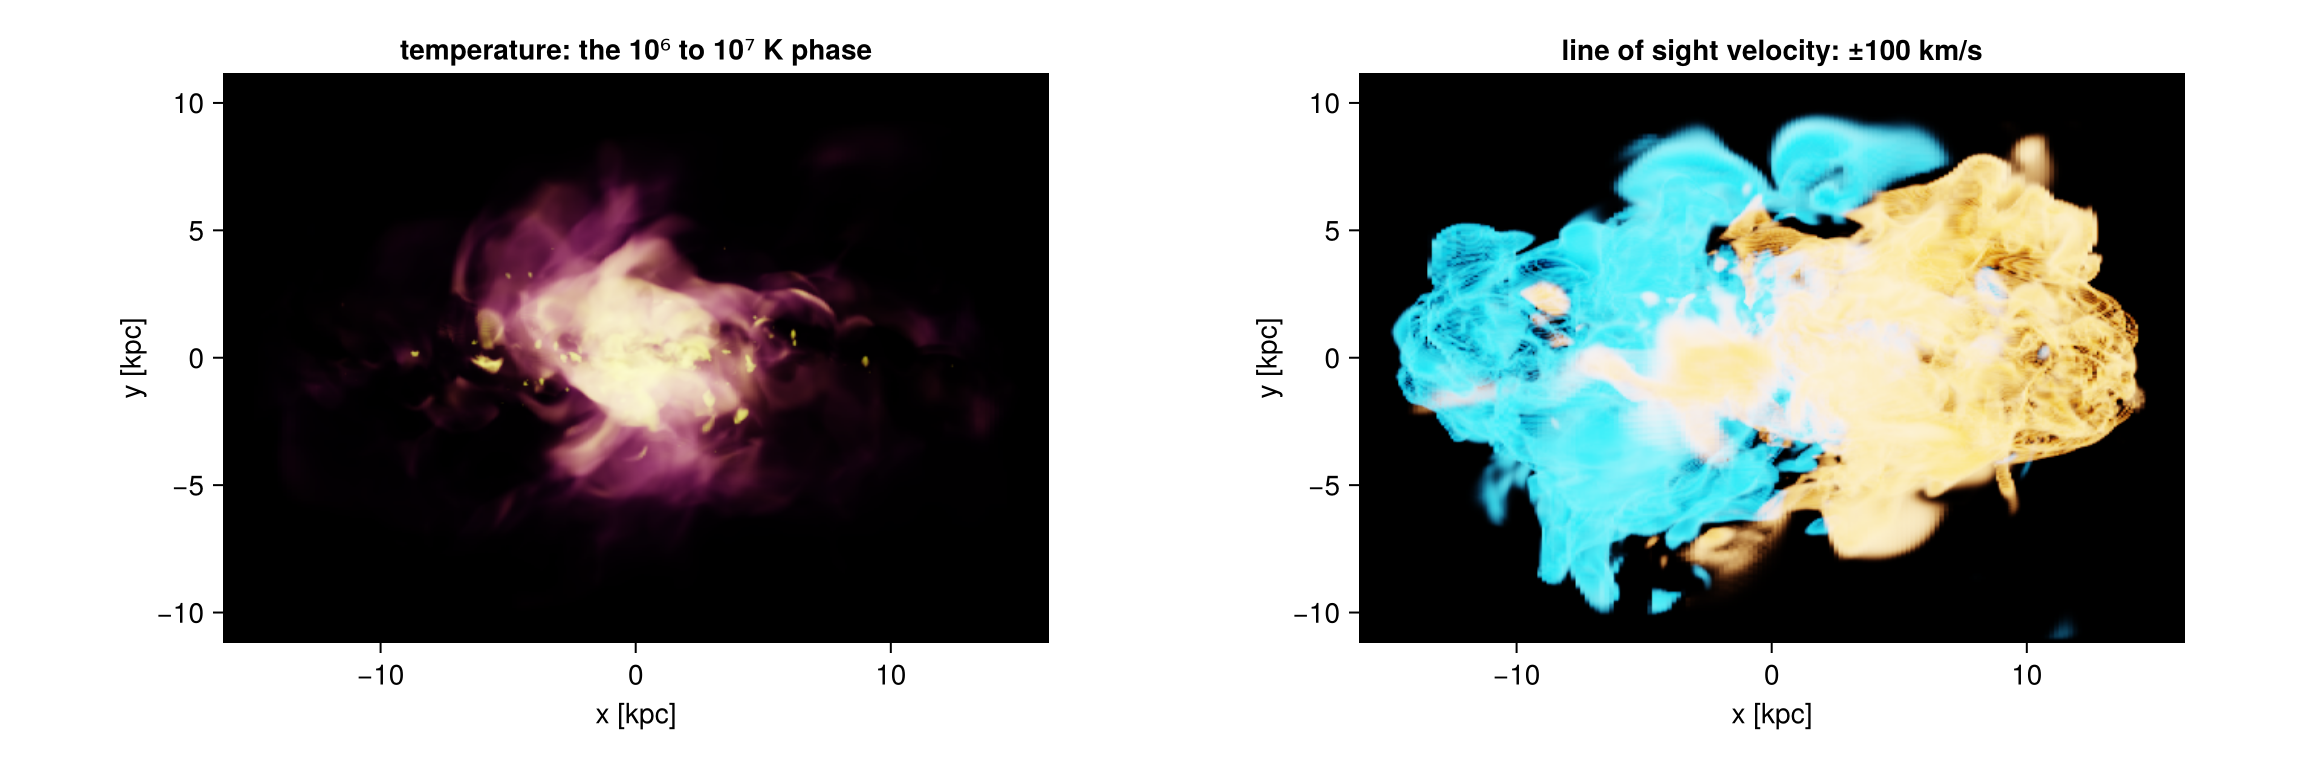
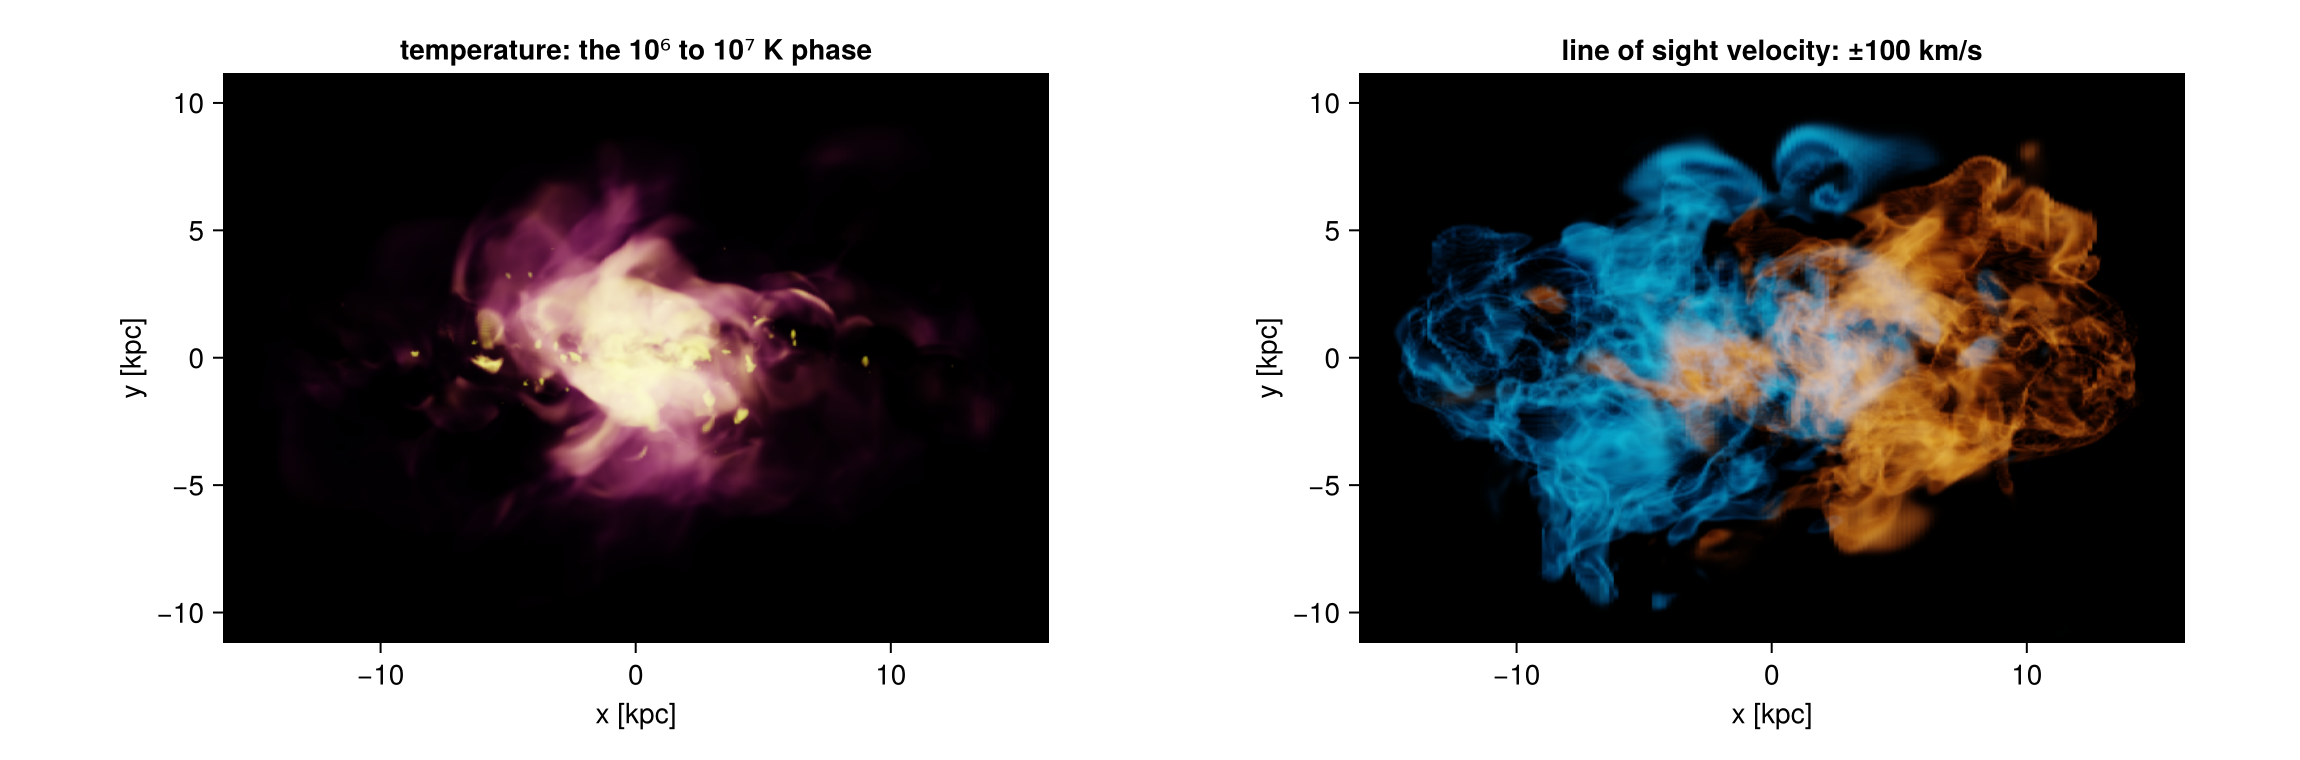
docs(volumerender): translucent velocity surfaces, honest scaling plots
- the ±100 km/s surfaces were solid blocks of colour; a small iso_alpha
  and a long tau_unit_length let them show through each other
- a note on why a signed quantity needs translucent surfaces
- both scaling panels now carry the linear reference line, so "pixels are
  cheap" is visible instead of only asserted

Changed region(s): [[0.5865, 0.1513, 0.957, 0.8171], [0.8952, 0.8171, 0.9261, 0.8474]]

diff --git a/docs/src/17_multi_Volume_Rendering.md b/docs/src/17_multi_Volume_Rendering.md
@@ -103,7 +103,6 @@ println("gas cells = ", length(gas.data), ",  threads = ", Threads.nthreads())
 | ||_|| |   |___|   |  | |   _   |
 |_|   |_|_______|___|  |_|__| |__|
 Mera v1.8.0 | Julia 1.12.7 | 8 threads
-[ Info: Mera v1.8.0
 gas cells = 28320979,  threads = 8
 ```
 
@@ -124,7 +123,7 @@ fig
 ```
 
 ```
-VolumeRenderType: 1075 × 742 pixels, :rho, filled 15.3 %   (23.0 s)
+VolumeRenderType: 1075 × 742 pixels, :rho, filled 15.3 %   (23.5 s)
 VolumeLook(:rho in :nH, log (-2.0, 2.0), :inferno, opacity (0.0, 1.0), exposure 2.5, τ=1 over 120.0 pc)
 ```
 
@@ -315,7 +314,7 @@ catches four cells and draws nothing.
   appears. That one setting is the whole difference here.
 
 ```julia
-shells = [1e-3, 1e-1, 1e1]                # cm⁻³: three very different scales of structure
+shells = [1e-3, 1e-1, 1e1]               # cm⁻³: three very different scales of structure
 alphas = [0.25, 0.30, 0.80]              # the surface that wraps everything is the faintest
 expos  = [6, 7, 14]                      # a small surface catches less light
 labels = ["10⁻³ cm⁻³", "10⁻¹ cm⁻³", "10 cm⁻³"]
@@ -349,14 +348,20 @@ colour-blind readers. Two surfaces at ±100 km/s then separate the gas coming to
 gas going away, which for a disc seen at 70° splits it cleanly in half. On a linear scale
 `iso_width` is in the units of the quantity, so `iso_width=8` is a shell 8 km/s wide.
 
+Keep those two surfaces **translucent**, with a small `iso_alpha` and a long `tau_unit_length`.
+Made solid they fill in as two flat blocks of colour and the picture says only which half is
+which. Translucent, the near side and the far side of each surface show through one another, the
+two colours interleave where the arms cross the line of sight, and the rotation becomes visible
+rather than merely labelled.
+
 ```julia
 fig = Figure(size=(1150, 380))
 mt = volumerender(gas, :T; unit=:K, colorrange=(1e6, 1e7), colormap=:plasma, opacity=(0.0, 0.5),
                   opacity_gamma=6, tau_unit_length=[900, :pc], exposure=8, panel...)
 show_image!(fig[1, 1], mt; title="temperature: the 10⁶ to 10⁷ K phase")
 mv = volumerender(gas, :vlos; unit=:km_s, scale=:linear, colorrange=(-150, 150), colormap=:vik,
-                  opacity=(0.0, 0.0), iso=[-100.0, 100.0], iso_alpha=[0.6, 0.6], iso_width=8.0,
-                  tau_unit_length=[400, :pc], exposure=8, panel...)
+                  opacity=(0.0, 0.0), iso=[-100.0, 100.0], iso_alpha=[0.2, 0.2], iso_width=8.0,
+                  tau_unit_length=[1800, :pc], exposure=5, panel...)
 show_image!(fig[1, 2], mv; title="line of sight velocity: ±100 km/s")
 fig
 ```
@@ -496,7 +501,11 @@ its slope is the exponent, printed above the figure.
   about twice the time instead of sixty-four times.
 * **Right: time against the number of cells.** Three points, because the volume is cut three ways
   and not four: spheres of 4, 8 and 16 kpc radius around the centre. The grey dashed line is
-  exactly linear and the measurement lies on it.
+  exactly linear, and the measurement runs parallel to it, a touch steeper at cells^1.1, because a
+  larger volume also holds more of the coarse cells that each cover many pixels.
+
+In both panels the grey line is what the cost would be if it followed the axis one for one. On
+the left the measurement stays far below it, on the right it lies along it.
 
 ```julia
 look_s = volumelook(gas, :rho; unit=:nH, colorrange=(1e-2, 1e2), opacity_gamma=2.5,
@@ -528,7 +537,9 @@ println("\ntime ~ pixels^", round(slope(pix, tpix), digits=2),
 fig = Figure(size=(1000, 380))
 ax1 = Axis(fig[1, 1], xscale=log10, yscale=log10, xlabel="megapixels", ylabel="time [s]",
            title="resolution: almost free")
-scatterlines!(ax1, pix, tpix, color=:steelblue)
+scatterlines!(ax1, pix, tpix, color=:steelblue, label="measured")
+lines!(ax1, pix, tpix[1] .* pix ./ pix[1], color=:gray, linestyle=:dash, label="linear")
+axislegend(ax1, position=:lt, framevisible=false)
 ax2 = Axis(fig[1, 2], xscale=log10, yscale=log10, xlabel="million cells", ylabel="time [s]",
            title="cells: a straight line")
 scatterlines!(ax2, ncell, tcell, color=:darkorange)
@@ -538,17 +549,17 @@ fig
 ```
 
 ```
-pixel size 240 pc: (137, 95)  6.81 s
-pixel size 120 pc: (271, 187)  6.89 s
-pixel size 60 pc: (539, 372)  8.66 s
-pixel size 30 pc: (1075, 742)  13.3 s
-sphere of 4 kpc: 2427002 cells  0.69 s
-sphere of 8 kpc: 6626805 cells  2.42 s
-sphere of 16 kpc: 20737653 cells  7.08 s
-time ~ pixels^0.16   and   time ~ cells^1.09
+pixel size 240 pc: (137, 95)  7.41 s
+pixel size 120 pc: (271, 187)  7.37 s
+pixel size 60 pc: (539, 372)  9.4 s
+pixel size 30 pc: (1075, 742)  15.19 s
+sphere of 4 kpc: 2427002 cells  0.84 s
+sphere of 8 kpc: 6626805 cells  2.49 s
+sphere of 16 kpc: 20737653 cells  7.73 s
+time ~ pixels^0.17   and   time ~ cells^1.03
 ```
 
-![](17_multi_Volume_Rendering_files/17_multi_Volume_Rendering_32_14.png)
+![](17_multi_Volume_Rendering_files/17_multi_Volume_Rendering_32_15.png)
 
 ## 14. What it is, and what it is not
 
